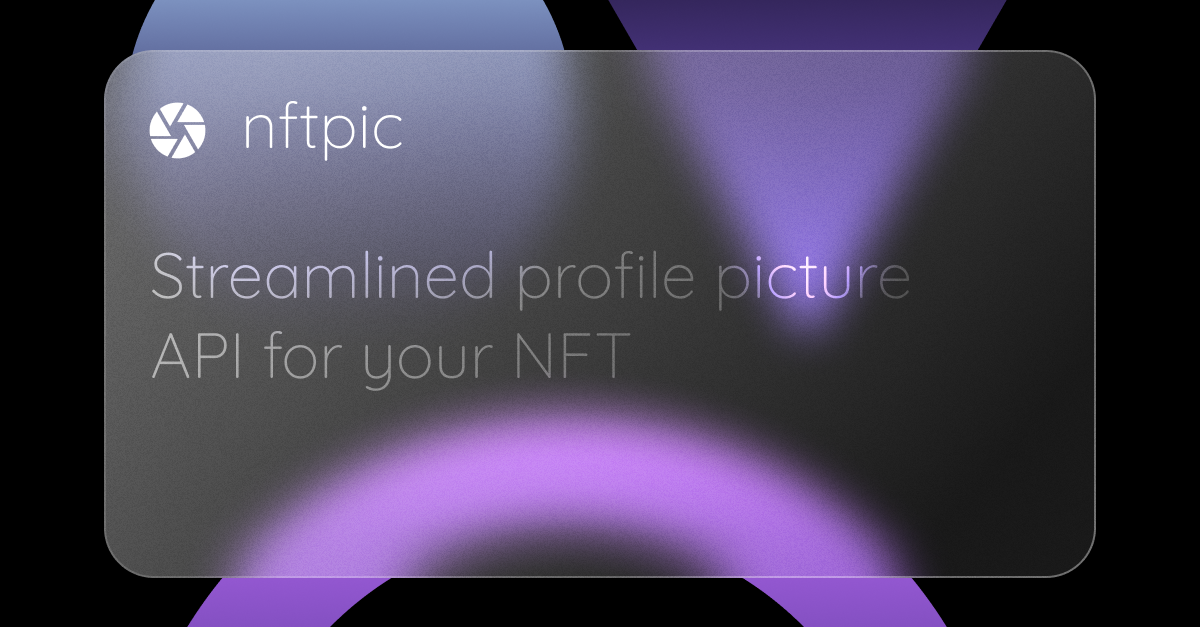
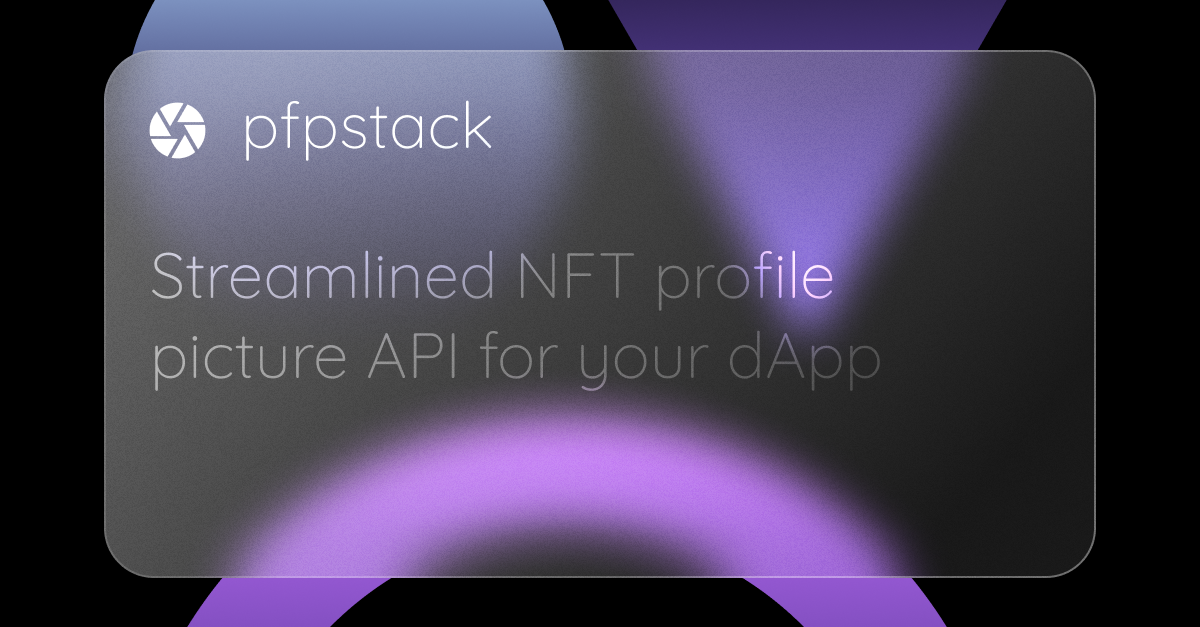
update: project name

diff --git a/layouts/Head.tsx b/layouts/Head.tsx
@@ -6,21 +6,21 @@ type Props = {
 
 export const DefaultHead = ({ title }: Props) => (
 	<Head>
-		<title>{title ? title : 'nftpic - Your streamlined NFT avatar' }</title>
-		<meta name="title" content={title ? title : 'nftpic - Your streamlined NFT avatar' } />
-		<meta name="description" content="With nftpic, you can select your NFT as your avatar to sync across multiple dApps and platforms" />
+		<title>{title ? title : 'pfpstack - Your streamlined NFT avatar' }</title>
+		<meta name="title" content={title ? title : 'pfpstack - Your streamlined NFT avatar' } />
+		<meta name="description" content="With pfpstack, you can select your NFT as your avatar to sync across multiple dApps and platforms" />
 
 		<meta property="og:type" content="website" />
-		<meta property="og:url" content="https://nftpic.me/" />
-		<meta property="og:title" content={title ? title : 'nftpic - Your streamlined NFT avatar' } />
-		<meta property="og:description" content="With nftpic, you can select your NFT as your avatar to sync across multiple dApps and platforms" />
-		<meta property="og:image" content="https://nftpic.me/meta.png" />
+		<meta property="og:url" content="https://pfpstack.me/" />
+		<meta property="og:title" content={title ? title : 'pfpstack - Your streamlined NFT avatar' } />
+		<meta property="og:description" content="With pfpstack, you can select your NFT as your avatar to sync across multiple dApps and platforms" />
+		<meta property="og:image" content="https://pfpstack.me/meta.png" />
 
 		<meta property="twitter:card" content="summary_large_image" />
-		<meta property="twitter:url" content="https://nftpic.me/" />
-		<meta property="twitter:title" content={title ? title : 'nftpic - Your streamlined NFT avatar' } />
-		<meta property="twitter:description" content="With nftpic, you can select your NFT as your avatar to sync across multiple dApps and platforms" />
-		<meta property="twitter:image" content="https://nftpic.me/meta.png" />
+		<meta property="twitter:url" content="https://pfpstack.me/" />
+		<meta property="twitter:title" content={title ? title : 'pfpstack - Your streamlined NFT avatar' } />
+		<meta property="twitter:description" content="With pfpstack, you can select your NFT as your avatar to sync across multiple dApps and platforms" />
+		<meta property="twitter:image" content="https://pfpstack.me/meta.png" />
 		<meta name="viewport" content="initial-scale=1.0, width=device-width" />
 		<link rel="icon" href="/favicon.ico" />
 	</Head>

diff --git a/pages/api/update/user.ts b/pages/api/update/user.ts
@@ -19,7 +19,7 @@ export default async function assetHandler(req: NextApiRequest, res: NextApiResp
 
 				const uSig = new Uint8Array(signature.signature.data)
 				const bPubKey = new PublicKey(publicKey).toBytes()
-				const message = new TextEncoder().encode('$NFTPIC')
+				const message = new TextEncoder().encode('$pfpstack')
 				const verified = nacl.sign.detached.verify(message, uSig, bPubKey)
 				if (!verified) { res.status(400).json({ error: "Unauthorized" }); return }
 

diff --git a/pages/index.tsx b/pages/index.tsx
@@ -16,7 +16,7 @@ const Home: NextPage = () => {
 			<Navbar />
 			<Container maxWidth="lg">
 				<Typography marginTop={10} color="primary" fontFamily="quicksand" variant="h4">
-					nftpic
+					pfpstack
 				</Typography>
 				<Typography marginTop={2} color="secondary" fontFamily="quicksand" variant="h6">
 					Streamlined API for syncing your NFT avatar across dApps

diff --git a/layouts/Navbar.tsx b/layouts/Navbar.tsx
@@ -18,7 +18,7 @@ export function Navbar() {
 							<Stack direction="row" alignItems="center">
 								<CameraIcon />
 								<Typography marginLeft={1} fontFamily="quicksand" variant="h6" component="div" sx={{ flexGrow: 1 }}>
-									nftpic
+									pfpstack
 								</Typography>
 							</Stack>
 						</a>

diff --git a/pages/update.tsx b/pages/update.tsx
@@ -54,7 +54,7 @@ const Update: NextPage = () => {
 
 	const update = async () => {
 		if (!image) return toast.error('Please select an image')
-		const signature = await signMessage('$NFTPIC')
+		const signature = await signMessage('$pfpstack')
 		if (!signature) return
 		const data = {
 			name,
